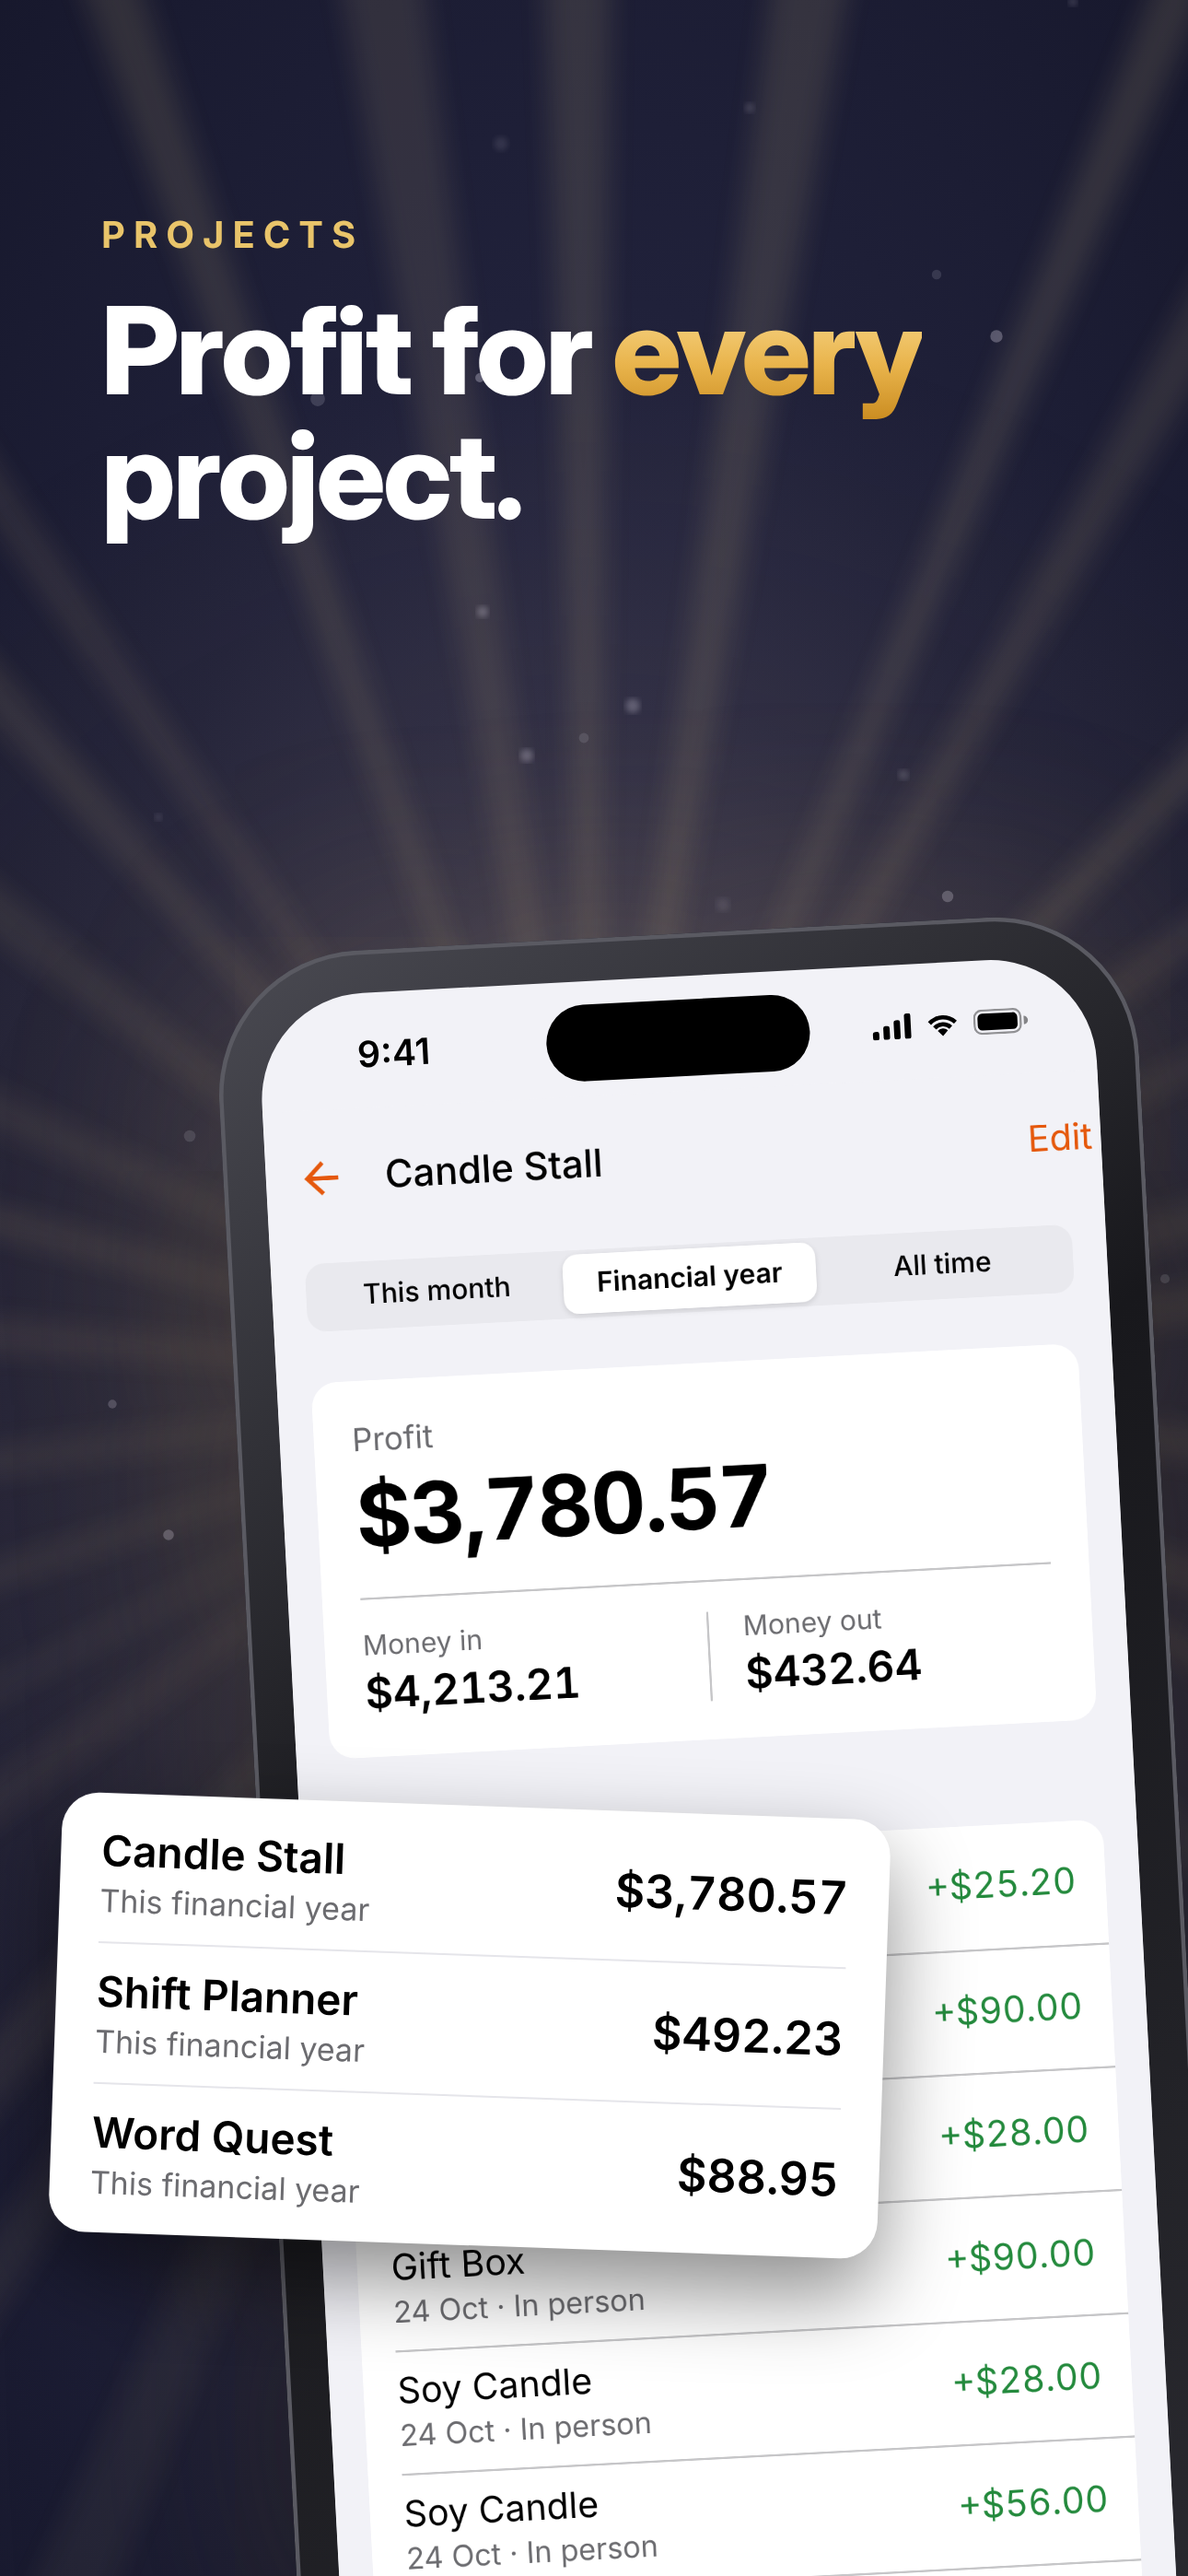
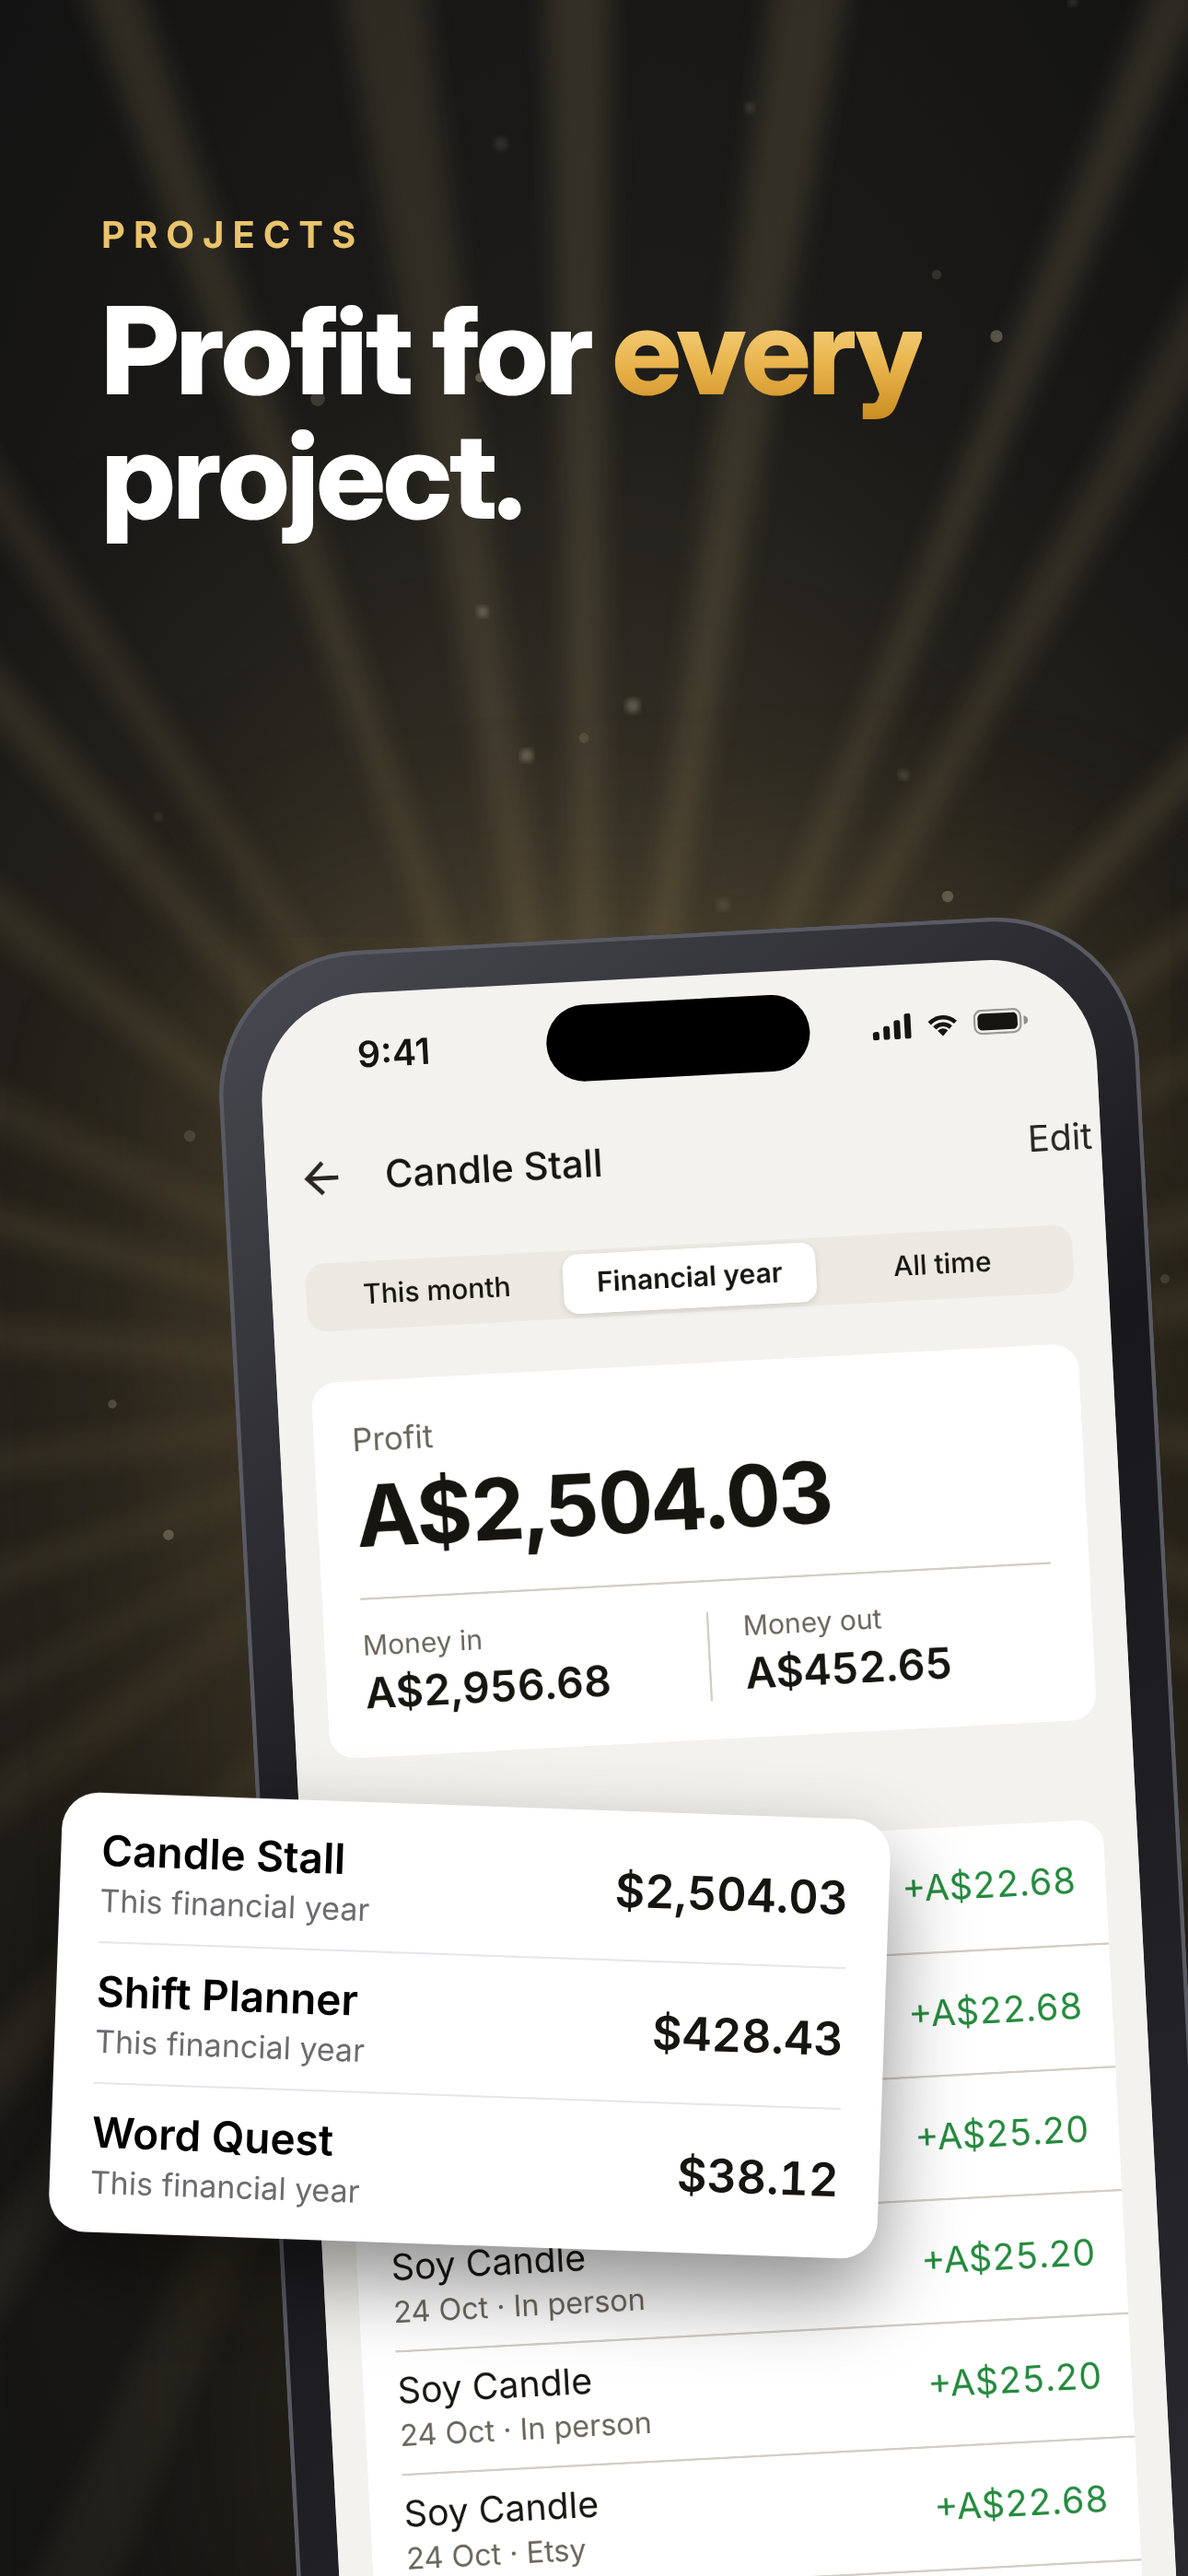
Screenshots and tax report in charcoal and gold
Fresh captures with sample data (design/screenshots/sample_data.py, capture.py),
charcoal backdrops, and the tax report PDF accent in gold instead of orange.

Claude-Session: https://claude.ai/code/session_01SM4u5A5sRMKiUF2jvUrys6

diff --git a/mobile/src/lib/taxReport.ts b/mobile/src/lib/taxReport.ts
@@ -88,23 +88,23 @@ export function taxReportHtml(d: Snapshot, ty: TaxYear, money: (n: number) => st
   @page { size: A4; margin: 14mm 12mm 16mm; }
   * { box-sizing: border-box; }
   html { -webkit-print-color-adjust: exact; print-color-adjust: exact; }
-  body { font-family: -apple-system, "Helvetica Neue", Arial, sans-serif; color: #141824; font-size: 9.5pt; margin: 0; }
+  body { font-family: -apple-system, "Helvetica Neue", Arial, sans-serif; color: #1C1A16; font-size: 9.5pt; margin: 0; }
   h1 { font-size: 20pt; margin: 0 0 2pt; letter-spacing: -0.3pt; }
-  h2 { font-size: 12pt; margin: 18pt 0 6pt; padding-bottom: 3pt; border-bottom: 1.5pt solid #FF7A45; }
+  h2 { font-size: 12pt; margin: 18pt 0 6pt; padding-bottom: 3pt; border-bottom: 1.5pt solid #B8892E; }
   .sub { color: #5b6275; font-size: 10pt; }
-  .brand { display: flex; justify-content: space-between; align-items: flex-end; border-bottom: 3pt solid #141824; padding-bottom: 8pt; margin-bottom: 12pt; }
-  .brand .app { font-weight: 800; color: #FF7A45; font-size: 10pt; letter-spacing: 0.5pt; text-transform: uppercase; }
+  .brand { display: flex; justify-content: space-between; align-items: flex-end; border-bottom: 3pt solid #1C1A16; padding-bottom: 8pt; margin-bottom: 12pt; }
+  .brand .app { font-weight: 800; color: #B8892E; font-size: 10pt; letter-spacing: 0.5pt; text-transform: uppercase; }
   .tiles { display: grid; grid-template-columns: repeat(3, 1fr); gap: 8pt; }
   .tile { border: 1pt solid #dfe2ea; border-radius: 6pt; padding: 8pt 10pt; }
   .tile .l { color: #5b6275; font-size: 8.5pt; }
   .tile .v { font-size: 14pt; font-weight: 700; margin-top: 2pt; font-variant-numeric: tabular-nums; }
-  .tile.hero { background: #141824; color: #fff; border-color: #141824; }
+  .tile.hero { background: #1C1A16; color: #fff; border-color: #1C1A16; }
   .tile.hero .l { color: #c6cbe0; }
   table { width: 100%; border-collapse: collapse; font-variant-numeric: tabular-nums; }
   th { text-align: left; font-size: 8pt; color: #5b6275; font-weight: 700; text-transform: uppercase; letter-spacing: 0.3pt; padding: 4pt 5pt; border-bottom: 1pt solid #c9cdd8; }
   td { padding: 4pt 5pt; border-bottom: 0.5pt solid #e7e9ef; vertical-align: top; }
   th.n, td.n, .num td:nth-child(n+2), .num th:nth-child(n+2) { text-align: right; }
-  tr.total td { font-weight: 700; border-top: 1pt solid #141824; border-bottom: none; }
+  tr.total td { font-weight: 700; border-top: 1pt solid #1C1A16; border-bottom: none; }
   td.none { color: #8a90a3; text-align: center; padding: 10pt; }
   .r { text-align: right; }
   .muted { color: #8a90a3; }

diff --git a/mobile/design/screenshots/make_screenshots.py b/mobile/design/screenshots/make_screenshots.py
@@ -27,11 +27,11 @@ def backdrop(w, h, cx, cy, seed):
         p2 = (cx + L * math.cos(a + wd), cy + L * math.sin(a + wd))
         rays.append(f'<path d="M{cx} {cy} L{p1[0]:.0f} {p1[1]:.0f} L{p2[0]:.0f} {p2[1]:.0f} Z" fill="#F1D594" opacity="{random.uniform(0.04, 0.08) + 0.05 * up:.3f}"/>')
     dust = "".join(
-        f'<circle cx="{random.uniform(0, w):.0f}" cy="{random.uniform(0, h):.0f}" r="{random.uniform(3, 8):.1f}" fill="#E9E4F5" opacity="{random.uniform(0.1, 0.3):.2f}"'
+        f'<circle cx="{random.uniform(0, w):.0f}" cy="{random.uniform(0, h):.0f}" r="{random.uniform(3, 8):.1f}" fill="#EADFC4" opacity="{random.uniform(0.1, 0.3):.2f}"'
         + (' filter="url(#db)"' if random.random() < 0.5 else "") + "/>" for _ in range(int(w * h / 90000)))
     return f'''<svg xmlns="http://www.w3.org/2000/svg" width="{w}" height="{h}" viewBox="0 0 {w} {h}" style="position:absolute;inset:0">
 <defs>
-<radialGradient id="base" cx="{cx/w}" cy="{cy/h}" r="1.05"><stop offset="0" stop-color="#3A3955"/><stop offset="0.4" stop-color="#20213A"/><stop offset="1" stop-color="#0E0F1F"/></radialGradient>
+<radialGradient id="base" cx="{cx/w}" cy="{cy/h}" r="1.05"><stop offset="0" stop-color="#38342C"/><stop offset="0.4" stop-color="#1C1B19"/><stop offset="1" stop-color="#0B0B0D"/></radialGradient>
 <radialGradient id="glow" cx="{cx}" cy="{cy}" r="{w*0.9:.0f}" gradientUnits="userSpaceOnUse"><stop offset="0" stop-color="#E8C77E" stop-opacity="0.32"/><stop offset="0.45" stop-color="#C9A35A" stop-opacity="0.08"/><stop offset="1" stop-color="#C9A35A" stop-opacity="0"/></radialGradient>
 <filter id="rb"><feGaussianBlur stdDeviation="14"/></filter><filter id="db"><feGaussianBlur stdDeviation="3"/></filter>
 </defs>
@@ -48,20 +48,20 @@ STATUS = '''<div class="sb" style="color:{fg}"><span>9:41</span><span class="ic"
 def phone(shot, width, x, y, rot=0, dark=False, z=1):
     # Screen is 393 x 852 points; the capture fills it below a 54pt status bar.
     k = width / 433.0
-    bg = "#000" if dark else "#F2F2F7"
-    fg = "#fff" if dark else "#000"
+    bg = "#121214" if dark else "#F4F2EE"
+    fg = "#F3EFE6" if dark else "#17150F"
     return f'''<div class="phone" style="left:{x}px;top:{y}px;width:433px;height:892px;transform:scale({k:.4f}) rotate({rot}deg);z-index:{z}">
 <div class="screen" style="background:{bg}">{STATUS.format(fg=fg)}<img src="{uri(f"{CAP}/{shot}.png")}" style="position:absolute;left:0;top:54px;width:393px;height:798px"/>
 <div class="island"></div><div class="home" style="background:{fg}"></div></div></div>'''
 
 
 def card(html, x, y, w, rot=0, z=5, dark=False):
-    bg = "#2C2C2E;box-shadow:0 40px 90px rgba(0,0,0,.6),0 0 0 3px rgba(233,196,106,.55)" if dark else "#FFFFFF"
+    bg = "#1B1B1E;box-shadow:0 40px 90px rgba(0,0,0,.6),0 0 0 3px rgba(233,196,106,.55)" if dark else "#FFFFFF"
     return f'<div class="card" style="left:{x}px;top:{y}px;width:{w}px;transform:rotate({rot}deg);z-index:{z};background:{bg}">{html}</div>'
 
 
 def row(title, sub, amount, tone="", dark=False):
-    color = {"gain": "#30D158" if dark else "#248A3D", "loss": "#D70015"}.get(tone, "#fff" if dark else "#000")
+    color = {"gain": "#30D158" if dark else "#248A3D", "loss": "#D70015"}.get(tone, "#F3EFE6" if dark else "#17150F")
     return (f'<div class="row"><div><div class="t">{title}</div><div class="s">{sub}</div></div>'
             f'<div class="a" style="color:{color}">{amount}</div></div>')
 
@@ -85,7 +85,7 @@ h1 em{font-style:normal;background:linear-gradient(180deg,#FFE7A6,#E9B44C 60%%,#
 .row .t{font-size:46px;font-weight:600;color:#000}.row .s{font-size:34px;color:#6C6C70;margin-top:6px}
 .row .a{font-size:50px;font-weight:600;font-variant-numeric:tabular-nums;white-space:nowrap}
 .row+.row{border-top:2px solid #E5E5EA;margin-top:24px;padding-top:24px}
-.dk .t{color:#fff}.dk .s{color:#98989F}.dk .row+.row{border-color:#38383A}
+.dk .t{color:#F3EFE6}.dk .s{color:#98989F}.dk .row+.row{border-color:#38383A}
 .paper{position:absolute;background:#fff;border-radius:14px;overflow:hidden;box-shadow:0 60px 120px rgba(0,0,0,.5)}
 .tile{position:absolute;border-radius:22.4%%;box-shadow:0 30px 70px rgba(0,0,0,.5);overflow:hidden}
 '''
@@ -116,7 +116,7 @@ slides["12"] = page(2 * W, body12)
 # 3: sales
 b3 = backdrop(W, H, 645, 1500, 3) + head("Sales", "Every sale, <em>month by month.</em>")
 b3 += phone("light-sales", 1000, 190, 1000, rot=3)
-b3 += card(row("October 2026", "Sales after fees", "$1,279.62", "gain"), 70, 1560, 820, rot=-3, z=6)
+b3 += card(row("October 2026", "Sales after fees", "$907.50", "gain"), 70, 1560, 820, rot=-3, z=6)
 slides["03"] = page(W, b3)
 
 # 4: repeating costs, in dark mode
@@ -128,7 +128,7 @@ slides["04"] = page(W, b4)
 # 5: projects
 b5 = backdrop(W, H, 645, 1500, 5) + head("Projects", "Profit for <em>every</em> project.")
 b5 += phone("light-project", 1000, 230, 1040, rot=-3)
-b5 += card(row("Candle Stall", "This financial year", "$3,780.57") + row("Shift Planner", "This financial year", "$492.23") + row("Word Quest", "This financial year", "$88.95"),
+b5 += card(row("Candle Stall", "This financial year", "$2,504.03") + row("Shift Planner", "This financial year", "$428.43") + row("Word Quest", "This financial year", "$38.12"),
            60, 1960, 900, rot=2, z=6)
 slides["05"] = page(W, b5)
 

diff --git a/mobile/design/screenshots/sample_data.py b/mobile/design/screenshots/sample_data.py
@@ -1,0 +1,52 @@
+import json, random, datetime as dt
+random.seed(7)
+T=1761800000000
+def rec(i,**k): return dict(id=i,createdAt=T,updatedAt=T,**k)
+items=[rec('i1',name='Candle Stall',groupId=None,status='Live',logo=None,iconText='CS',iconHue=28),
+       rec('i2',name='Shift Planner',groupId=None,status='Live',logo=None,iconText='SP',iconHue=215),
+       rec('i3',name='Word Quest',groupId=None,status='In development',logo=None,iconText='WQ',iconHue=150)]
+P=[('p1','Soy Candle',25.20,'i1'),('p2','Gift Box',90,'i1'),('p3','Shift Planner Lifetime',19.99,'i2'),('p4','Shift Planner Premium',4.99,'i2'),('p5','Word Quest Hint Pack',2.99,'i3')]
+products=[rec(a,name=b,price=c,itemId=d,groupId=None) for a,b,c,d in P]
+price={a:c for a,b,c,d in P}; proj={a:d for a,b,c,d in P}
+sales=[]; n=0
+def sale(pid,date,ch,fee,q=1):
+    global n; n+=1; sales.append(rec(f's{n}',productId=pid,customerId=None,quantity=q,discount=0,fee=fee,channel=ch,date=date))
+d0=dt.date(2026,7,4)
+while d0<=dt.date(2026,10,28):
+    ds=d0.isoformat()
+    if d0.weekday()==5:  # Saturday market
+        for _ in range(random.randint(3,6)): sale('p1',ds,'In person',0)
+        if random.random()<.6: sale('p2',ds,'In person',0)
+    if random.random()<.18: sale('p1',ds,'Etsy',10)
+    if random.random()<.3: sale('p3',ds,'App Store',15)
+    if random.random()<.2: sale('p4',ds,'App Store',15)
+    if random.random()<.1: sale('p5',ds,'App Store',15)
+    d0+=dt.timedelta(days=1)
+# make sure the hero Etsy/App Store sales are the latest
+sale('p1','2026-10-29','Etsy',10); sale('p4','2026-10-29','App Store',15)
+exps=[('e1',45,'Market stall fee','Marketing','Council','2026-10-17','i1'),('e2',92.75,'Jars and lids','Stock & materials','Candle Supply Co','2026-10-08','i1'),
+      ('e3',38.50,'Gift box packaging','Stock & materials','PackRight','2026-10-01','i1'),('e4',186.40,'Soy wax and wicks','Stock & materials','Candle Supply Co','2026-08-12','i1'),
+      ('e5',45,'Market stall fee','Marketing','Council','2026-09-19','i1'),('e6',45,'Market stall fee','Marketing','Council','2026-08-15','i1'),('e7',149,'Apple Developer Program','Developer accounts','Apple','2026-07-20','i2')]
+expenses=[rec(a,amount=b,description=c,category=d,vendor=e,date=f,itemId=g,groupId=None) for a,b,c,d,e,f,g in exps]
+recurring=[rec('r1',amount=30,description='AI tools subscription',category='AI tools',vendor='',frequency='monthly',startDate='2026-07-01',endDate=None,itemId='i2',groupId=None),
+           rec('r2',amount=7,description='Web hosting',category='Hosting & domains',vendor='',frequency='monthly',startDate='2026-07-07',endDate=None,itemId='i2',groupId=None),
+           rec('r3',amount=19,description='Domain and email',category='Hosting & domains',vendor='',frequency='yearly',startDate='2026-08-28',endDate=None,itemId='i2',groupId=None)]
+settings=dict(currency='AUD',fyStartMonth=7,channels=[dict(name='In person',fee=0),dict(name='Etsy',fee=10),dict(name='Website',fee=3),dict(name='App Store',fee=15),dict(name='Google Play',fee=15)],
+  categories=["Stock & materials","Software & subscriptions","AI tools","Hosting & domains","Developer accounts","Marketing","Shipping & postage","Equipment","Other"],updatedAt=T)
+snap=dict(groups=[],items=items,products=products,customers=[],sales=sales,expenses=expenses,recurring=recurring,settings=settings,tombstones={})
+json.dump(snap,open('snap.json','w'))
+# figures for the cards
+net=lambda s: price[s['productId']]*s['quantity']*(1-s['fee']/100)
+octs=sum(net(s) for s in sales if s['date'].startswith('2026-10'))
+def occ(r,until='2026-10-30'):
+    out=[]; d=dt.date.fromisoformat(r['startDate'])
+    while d.isoformat()<=until:
+        out.append(d); 
+        m=d.month+(1 if r['frequency']=='monthly' else 12); y=d.year+(m-1)//12; m=(m-1)%12+1; d=d.replace(year=y,month=m)
+    return out
+prof={}
+for i in ['i1','i2','i3']:
+    s=sum(net(x) for x in sales if proj[x['productId']]==i and x['date']>='2026-07-01')
+    e=sum(x['amount'] for x in expenses if x['itemId']==i)+sum(r['amount']*len(occ(r)) for r in recurring if r['itemId']==i)
+    prof[i]=s-e
+print(json.dumps(dict(oct=round(octs,2),prof={k:round(v,2) for k,v in prof.items()},n=len(sales))))

diff --git a/mobile/design/screenshots/capture.py b/mobile/design/screenshots/capture.py
@@ -1,0 +1,27 @@
+import json, sys
+from playwright.sync_api import sync_playwright
+snap=open('snap.json').read(); OUT='caps'
+import os; os.makedirs(OUT,exist_ok=True)
+def go(p,scheme,name,steps):
+    ctx=p.new_context(viewport={'width':393,'height':798},device_scale_factor=3,color_scheme=scheme)
+    pg=ctx.new_page()
+    pg.add_init_script("localStorage.setItem('profitPocket.data',%s);" % json.dumps(snap))
+    pg.goto('http://localhost:8091/'); pg.wait_for_timeout(3500)
+    steps(pg); pg.wait_for_timeout(1000)
+    pg.screenshot(path=f'{OUT}/{name}.png'); ctx.close()
+def tab(n): return lambda pg: (pg.get_by_role('tab',name=n).first.click() if pg.get_by_role('tab',name=n).count() else pg.get_by_text(n,exact=True).last.click(), pg.wait_for_timeout(800))
+with sync_playwright() as p:
+    b=p.chromium.launch(executable_path='/usr/bin/google-chrome')
+    go(b,'light','light-home',lambda pg:None)
+    go(b,'light','light-sales',tab('Sales'))
+    go(b,'dark','dark-expenses',tab('Expenses'))
+    def proj(pg):
+        pg.get_by_text('Candle Stall',exact=True).first.click(force=True); pg.wait_for_timeout(1000)
+        pg.get_by_text('Financial year',exact=True).last.click(force=True)
+    go(b,'light','light-project',proj)
+    def tax(pg):
+        pg.get_by_label('Settings').first.click() if pg.get_by_label('Settings').count() else None
+        pg.wait_for_timeout(1000); pg.get_by_text('Tax Reports',exact=True).first.click(force=True)
+    go(b,'light','light-tax',tax)
+    b.close()
+print('ok')
